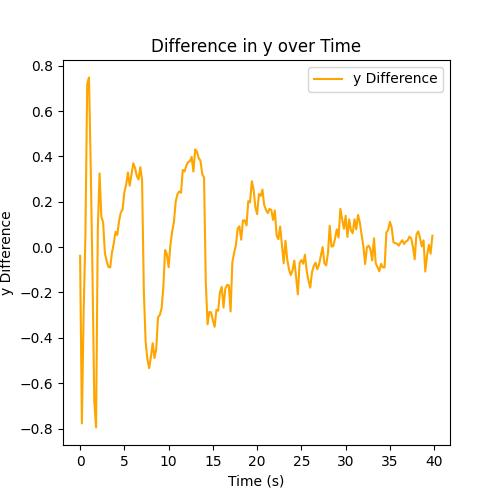
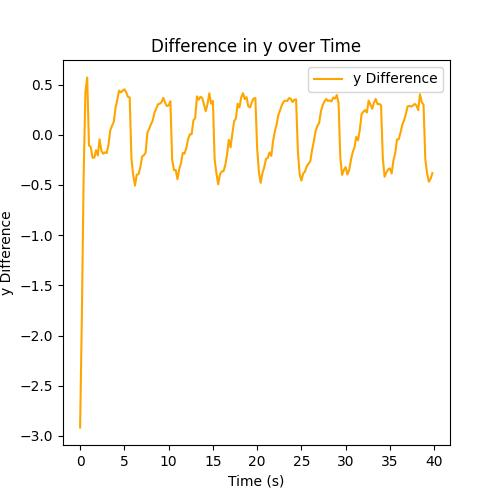
update carla kf gif

diff --git a/Test_func/test_kf_carla.py b/Test_func/test_kf_carla.py
@@ -21,7 +21,7 @@ car,truck = setup_carla_environment()
 velocity1 = carla.Vector3D(10, 0, 0)
 velocity2 = carla.Vector3D(15, 0, 0)
 car.set_target_velocity(velocity2)
-car.apply_control(carla.VehicleControl(throttle=0, steer=0.7, brake=0))
+car.apply_control(carla.VehicleControl(throttle=0.2, steer=1, brake=0))
 
 
 
@@ -49,12 +49,14 @@ G=np.eye(nx)*dt**2   #process noise matrix, x_iter=F@x_iter+B@u_iter+G@w
 H=np.eye(nx)   #measurement matrix, y=H@x_iter
 
 #initial state and control input
-x0=x_iter
+print(x_iter)
+x0=x_iter+5
+print(x0)
 u_iter+=np.array([3.14/180,0.7*9.81])
 u0=u_iter
 sigma_process=0.1
 sigma_measurement=0.05
-P0=np.eye(nx)*sigma_process**4
+P0=np.eye(nx)*(sigma_process)**4
 Q0=np.eye(nx)*sigma_process**2
 R0=np.eye(nx)*sigma_measurement**2
 # initial the Kalman Filter
